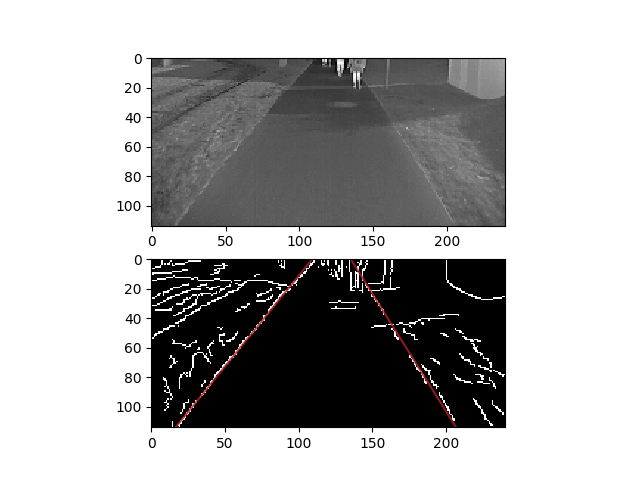
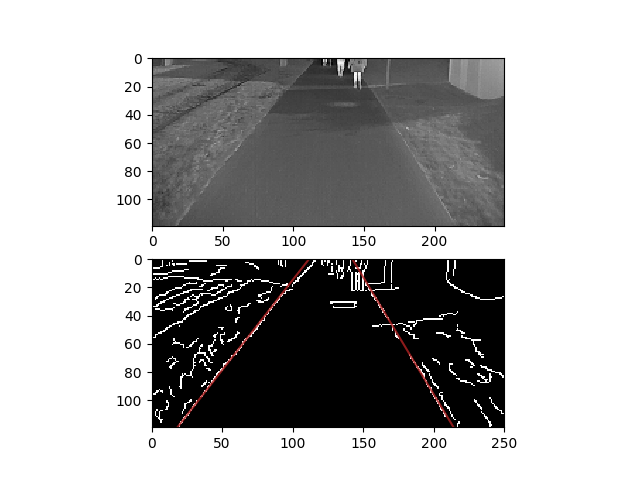
changed downsampling width to 250

diff --git a/main.py b/main.py
@@ -29,7 +29,7 @@ def detect_lane(img_path):
 
     # downsample image
     h,w = img.shape[:2]
-    desired_w = 240
+    desired_w = 250
     small_to_large_image_size_ratio = desired_w/w
     img = cv2.resize(img,
                        (0,0), # set fx and fy, not the final size
